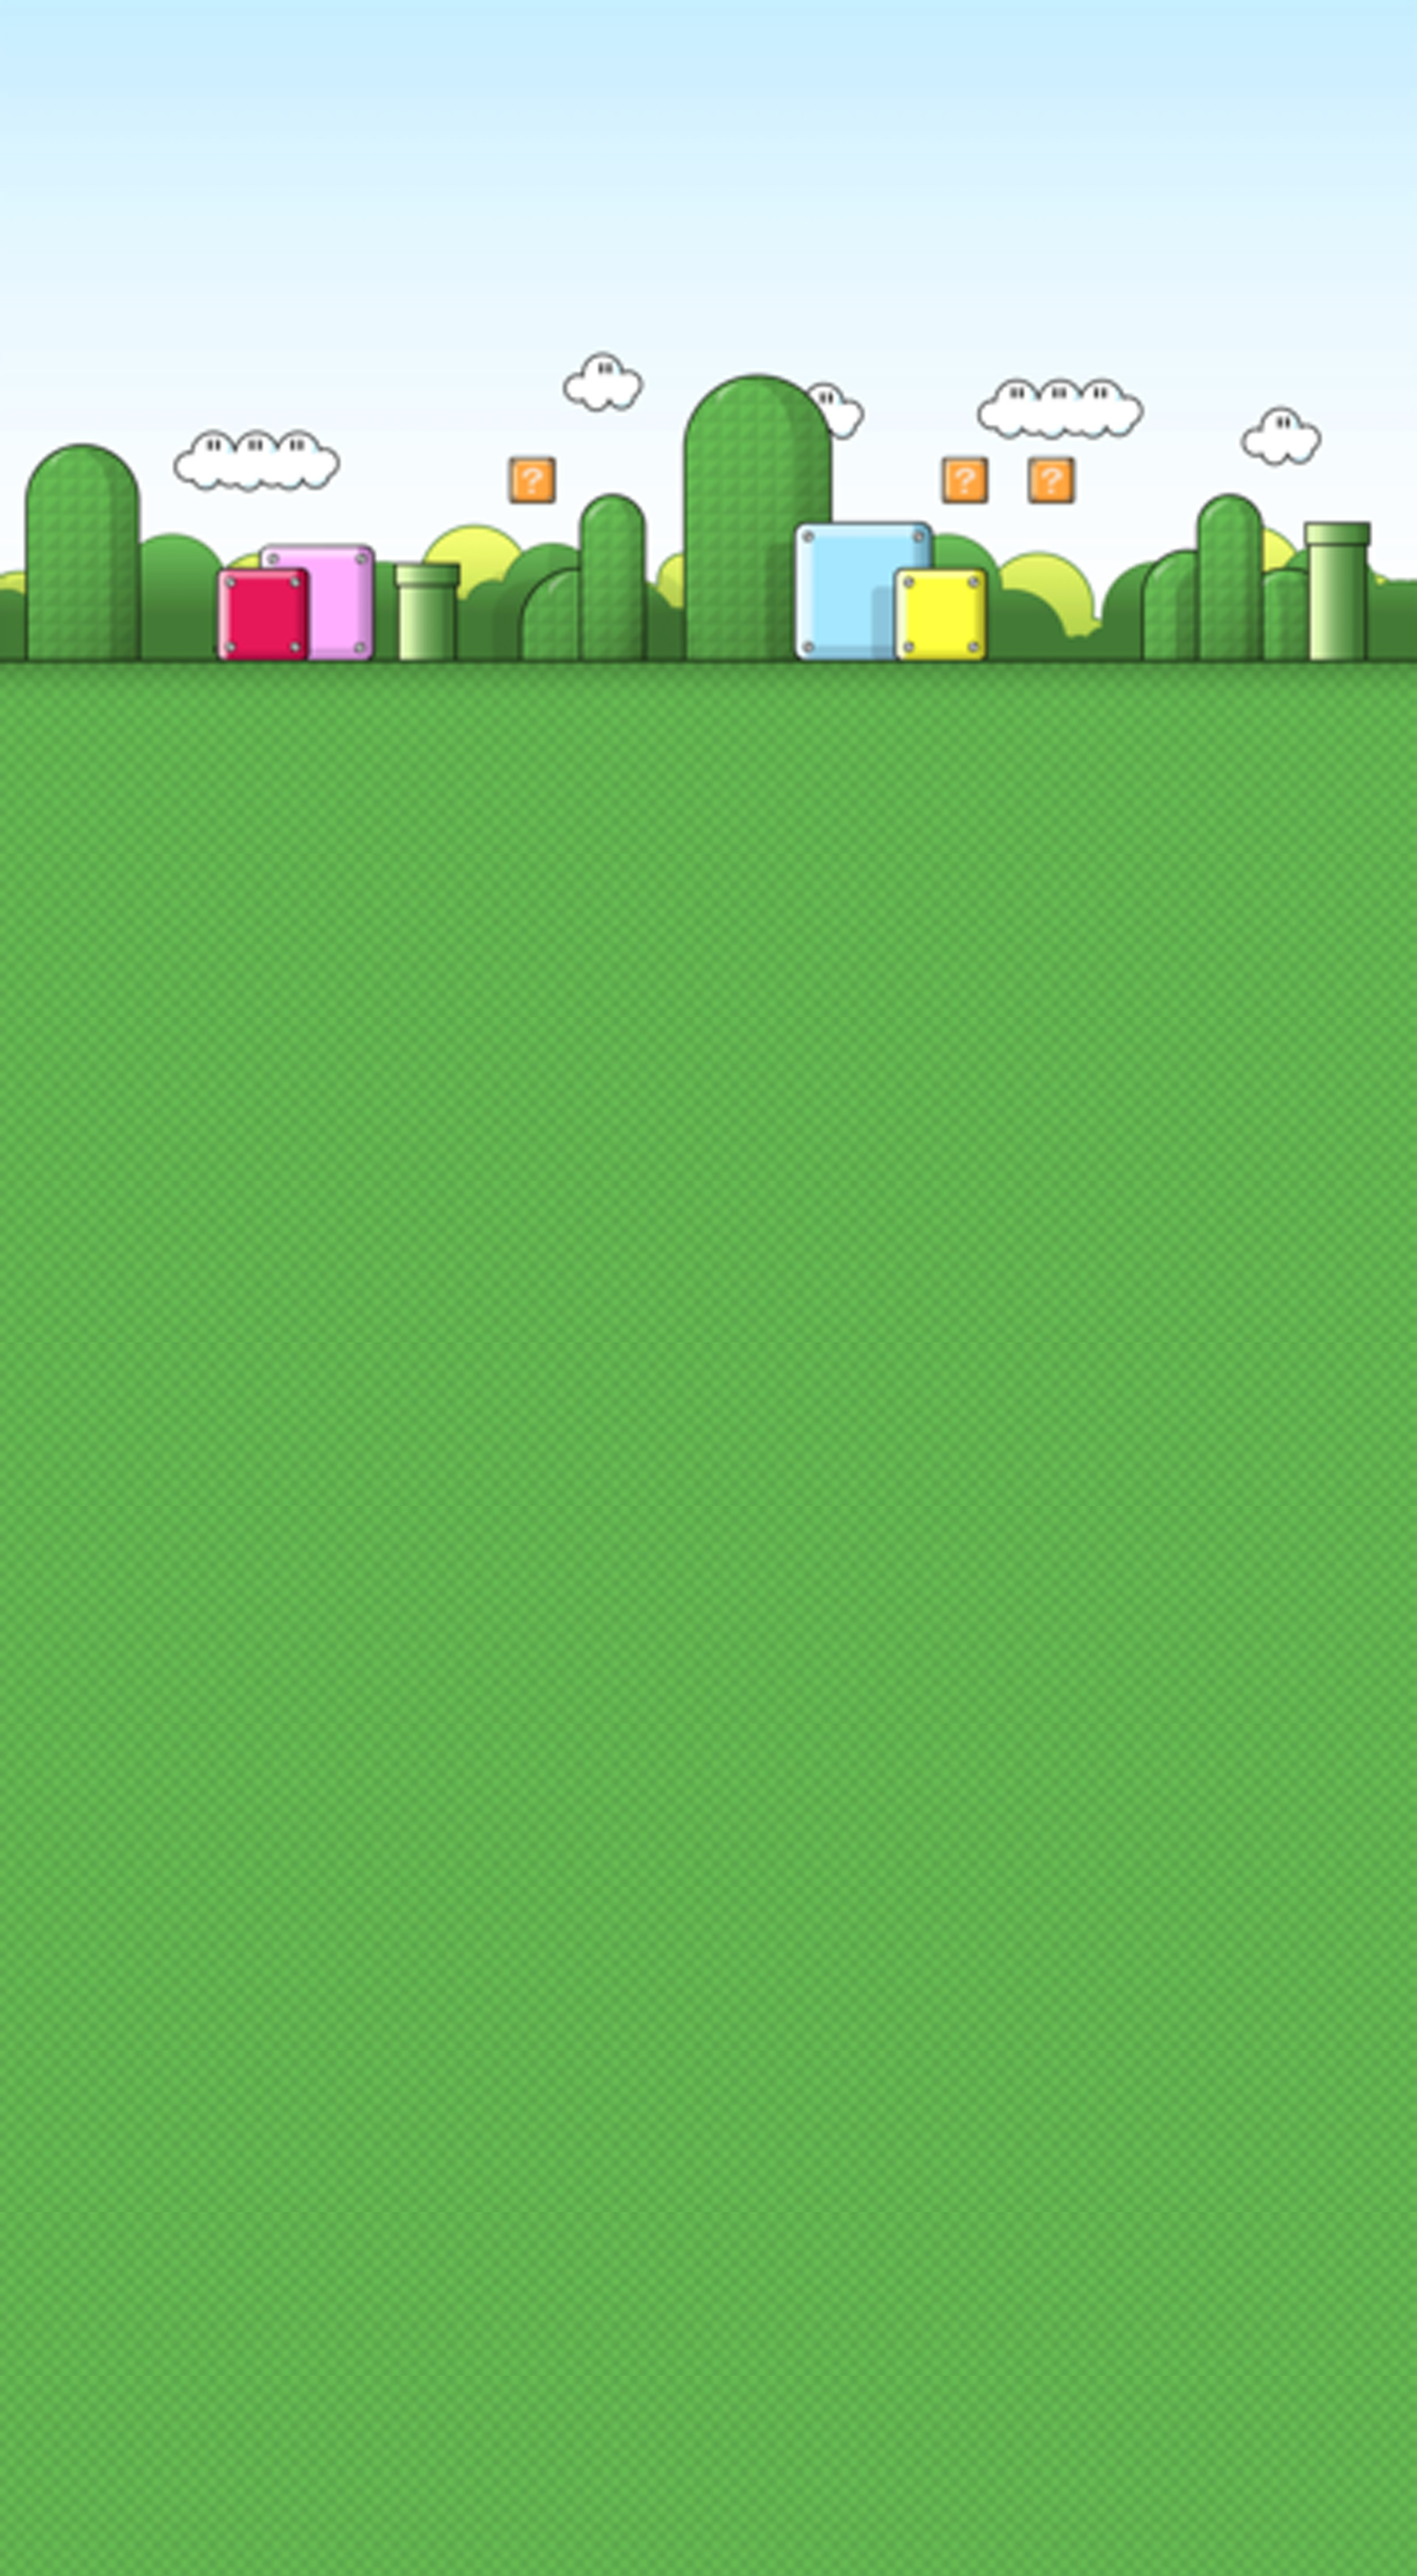
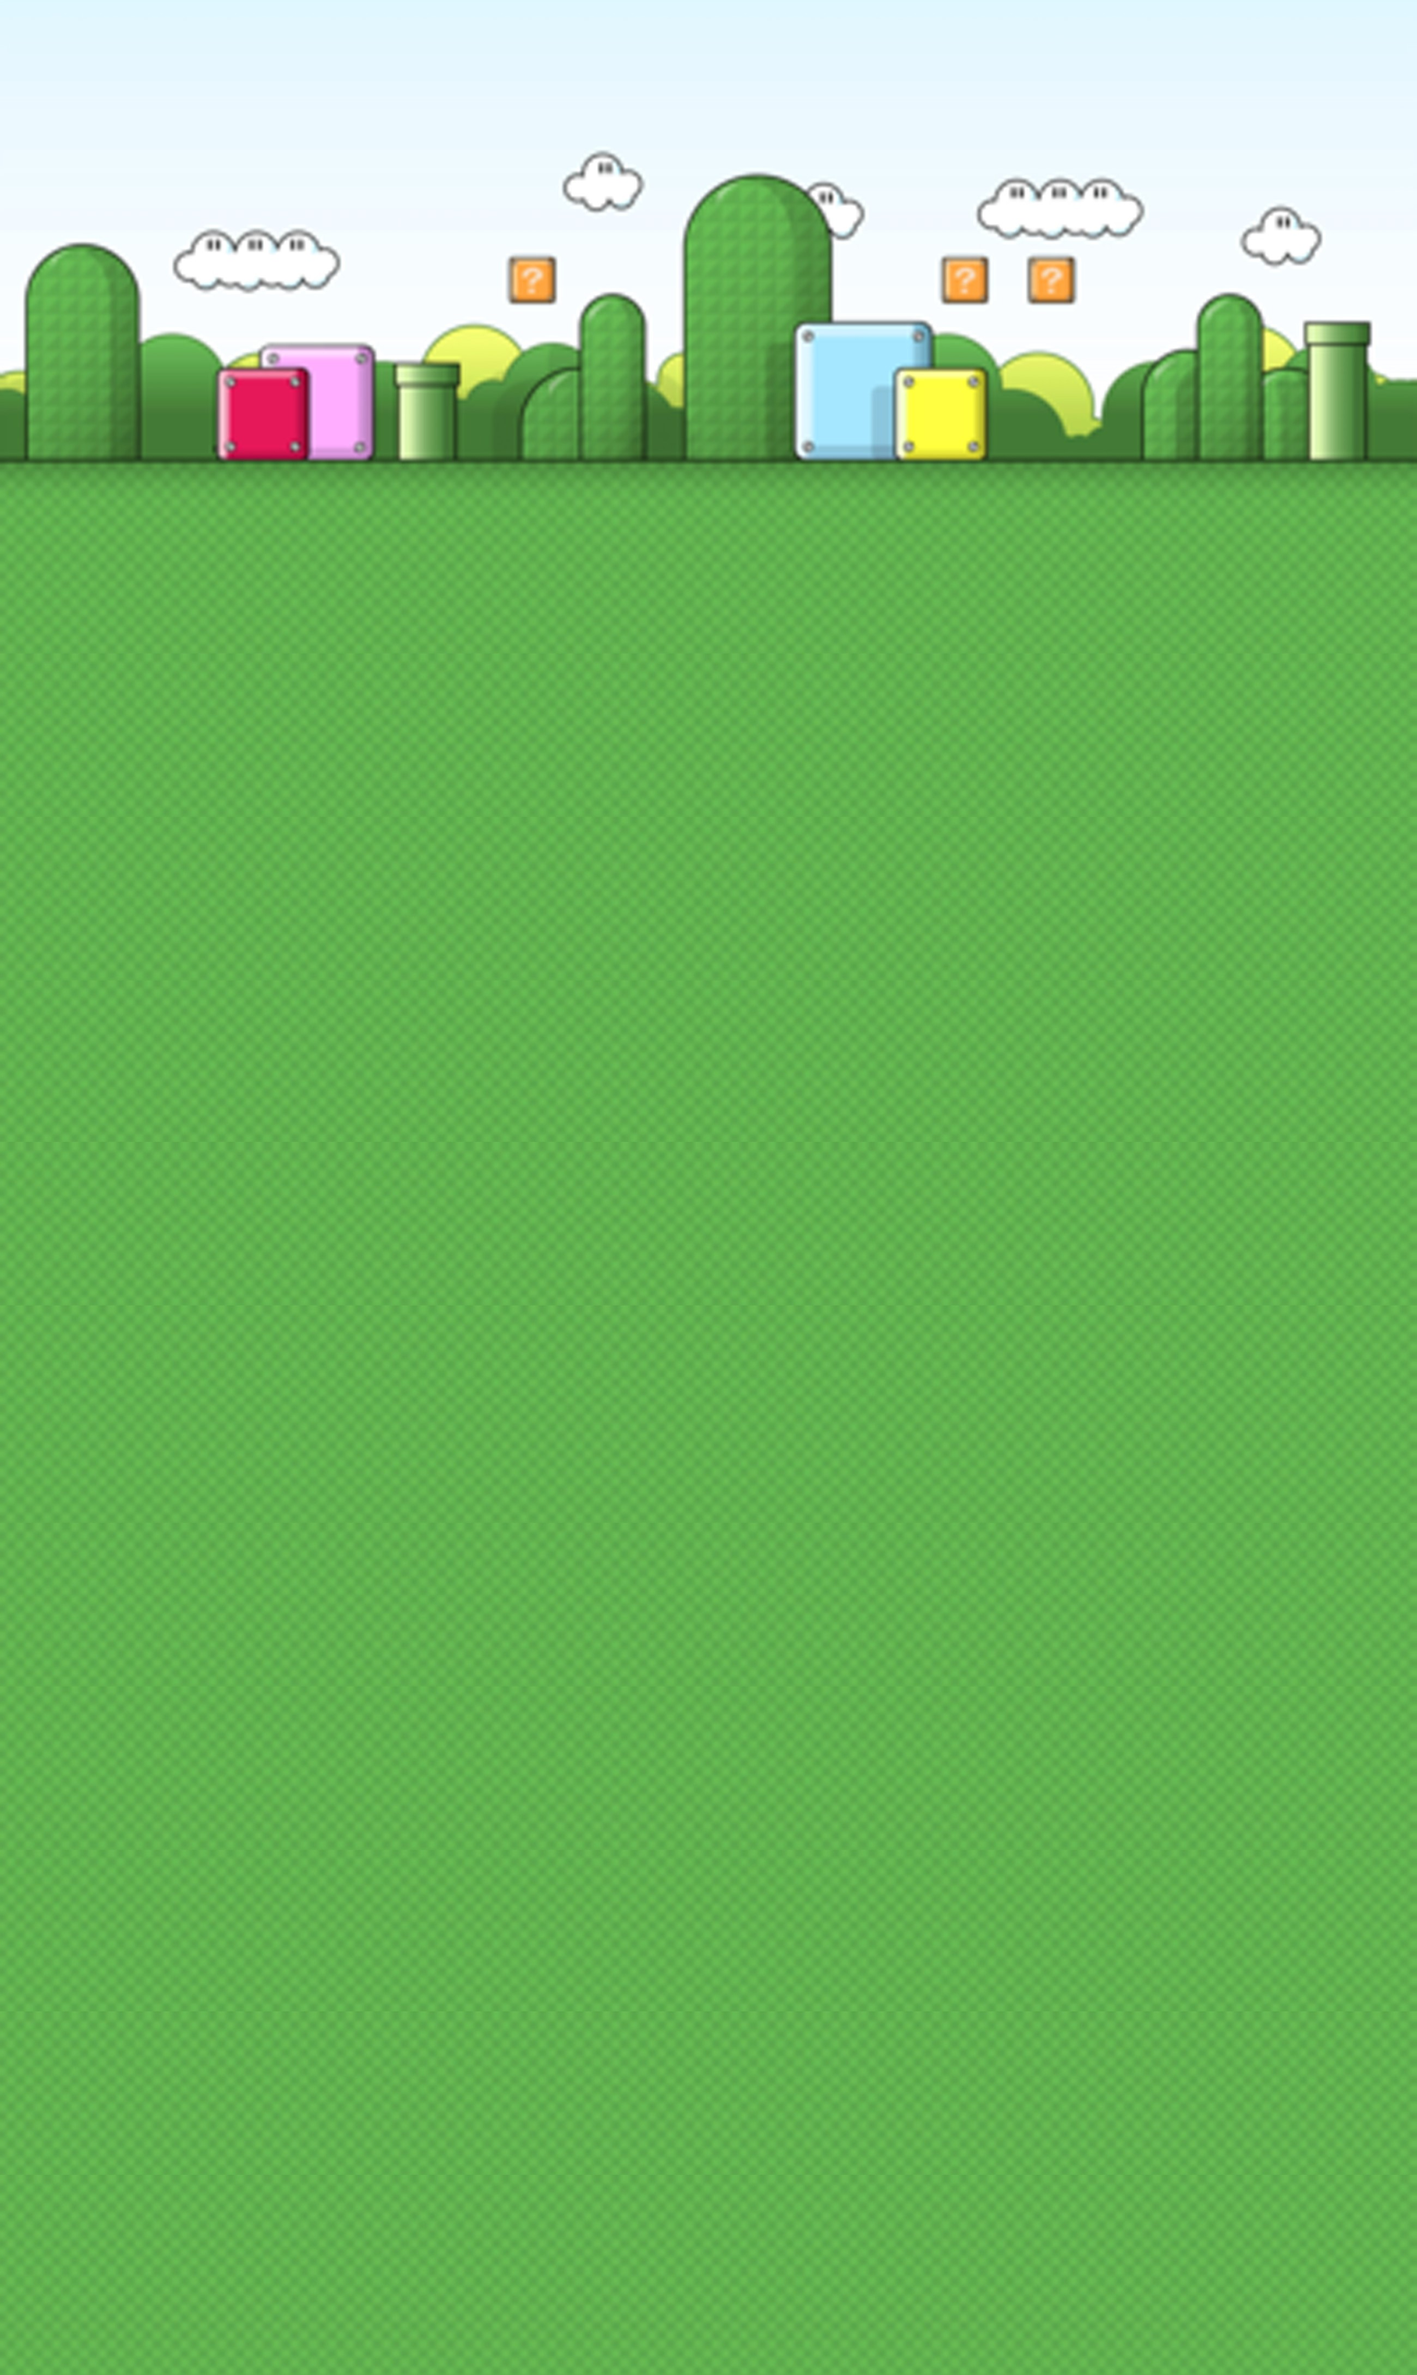
added admin panel button and page

Changed region(s): [[0.0, 0.0624, 1.0, 0.2809], [0.0, 0.0, 1.0, 0.0312]]

diff --git a/public/index.html b/public/index.html
@@ -1,27 +1,51 @@
 <!DOCTYPE html>
 <html lang="en">
-    <head>
-        <meta charset="UTF-8">
-        <title>Coding Games - Dor & Uzi</title>
-        <link rel="stylesheet" href="css/main.css">
-        <link rel="stylesheet" href="css/index.css"></head>
-    </head>
-    </head>
-    <body>
-        <header>
-            <h1>Coding Gamesssssss</h1>
-            <nav>
-                <ul>
-                    <li><a href="index.html">Home</a></li>
-                    <li><a href="games.html">Games</a></li>
-                    <li><a href="about.html">About</a></li>
-                    <li><a href="contactUs.html">Contact</a></li>
-                </ul>
-            </nav>
-        </header>
-        <main>
-        </main>
 
-        <script src="lib/jQuery/jquery-2.1.4.min.js"></script>
-    </body>
+<head>
+    <meta charset="UTF-8">
+    <title>Coding Games - Dor & Uzi</title>
+    <link rel="stylesheet" href="css/index.css">
+</head>
+
+<body>
+
+<header>
+    <button id="loginBtn" onclick="loginField()">Login</button>
+    <button id="logoutBtn" class="hide"  onclick="logout()">Logout</button>
+
+    <div class="login hide">
+        <div class="wrap">
+            <div class="avatar">
+                <img src="">
+            </div>
+            <form onsubmit="login(this); return false">
+            <input type="text" placeholder="username" required>
+            <div class="bar">
+                <i></i>
+            </div>
+            <input type="password" placeholder="password" required>
+            <button type="submit">Sign in</button>
+            </form>
+        </div>
+    </div>
+    <h1>Coding Gamesssssss</h1>
+    <nav>
+        <ul>
+            <li><a href="index.html">Home</a></li>
+            <li><a href="games.html">Games</a></li>
+            <li><a href="about.html">About</a></li>
+            <li><a href="contactUs.html">Contact</a></li>
+            <li id="adminPanel" class="hide"><a href="adminPanel.html">Admin Panel</a></li>
+        </ul>
+
+    </nav>
+
+</header>
+
+<main>
+
+</main>
+<script src="js/main.js"></script>
+<script src="lib/jQuery/jquery-2.1.4.min.js"></script>
+</body>
 </html>

diff --git a/public/css/mainStyle.scss b/public/css/mainStyle.scss
@@ -1,0 +1,125 @@
+body {
+  background-image: url("../img/background.jpg");
+  background-size: cover;
+}
+
+h1 {
+  display: block;
+  margin: 0 0 0 63px;
+  //margin-left: 63px;
+  font-size: 4em;
+}
+
+header {
+  margin-left: 35%;
+  margin-bottom: 23%;
+}
+
+nav ul {
+  //font-family: 'Montserrat', sans-serif;
+  margin: 0;
+  list-style-type: none;
+  padding-left: 0;
+  height: 2.4em;
+  text-align: center;
+}
+
+nav ul li {
+  float: left;
+}
+
+nav ul li a {
+  display: block;
+  width: 8em;
+  height: 1.25em;
+  line-height: 1.25em;
+  color: black;
+  font-size: 17px;
+  padding-top: 10px;
+  text-decoration: none;
+  width: 100px;
+}
+
+.hide {
+  display: none;
+}
+
+//login
+
+.login {
+  position: fixed;
+  top: 0;
+}
+
+#logoutBtn {
+  margin-left: 250px;
+}
+
+.wrap {
+  width:250px;
+  height: auto;
+  margin: auto;
+  margin-top: 10%;
+}
+.avatar {
+  width: 100%;
+  margin: auto;
+  width: 65px;
+  border-radius: 100px;
+  height: 65px;
+  background: #448ed3 ;
+  position: relative;
+  bottom: -15px;
+}
+.avatar img {
+  width: 55px;
+  height: 55px;
+  border-radius: 100px;
+  margin: auto;
+  border:3px solid #fff;
+  display: block;
+}
+.wrap input {
+  border: none;
+  background: #fff;
+  font-weight:700 ;
+  display: block;
+  height: 40px;
+  outline: none;
+  width: calc(100% - 24px) ;
+  margin: auto;
+  padding: 6px 12px 6px 12px;
+}
+.bar {
+  width: 100%;
+  height: 1px;
+  background: #fff ;
+}
+.bar i {
+  width: 95%;
+  margin: auto;
+  height: 1px ;
+  display: block;
+  background: #d1d1d1;
+}
+.wrap input[type="text"] {
+  border-radius: 7px 7px 0 0 ;
+}
+.wrap input[type="password"] {
+  border-radius: 0 0 7px 7px ;
+}
+
+.wrap button {
+  width: 100%;
+  border-radius: 7px;
+  background: #b6ee65;
+  border: none;
+  color: #51771a;
+  margin-top:-5px;
+  padding-top: 14px;
+  padding-bottom: 14px;
+  outline: none;
+  font-size: 13px;
+  border-bottom: 3px solid #307d63;
+  cursor: pointer;
+}

diff --git a/public/css/contactUs.scss b/public/css/contactUs.scss
@@ -1,4 +1,4 @@
-@import "main";
+@import "mainStyle";
 
 input, label, textarea, button {
   margin: 5px;
@@ -6,34 +6,34 @@ input, label, textarea, button {
 
 input {
   margin-bottom: 15px;
+  border: 2px solid black;
+  height: 20px;
+  background: rgba(255, 0, 0, 0.7);
+  font-size: 15px;
 }
 
+header {
+  margin: 0;
+}
 h1 {
-  font-size: 2.2em;
+  font-size: 3.2em;
+  margin-top: 10px;
 
 }
 
-//label {
-//  //width: 100px;
-//  //float: left;
-//  margin: 5px;
-//  //margin: 15px 10px;
-//}
-//textarea {
-//  margin: 5px;
-//}
-//button {
-//
-//}
+label {
+  font-weight: bold;
+  font-size: 1.2em;
+}
 
 .contact-form {
-  background: rgba(0, 255, 0, 0.2);
-  color: #E6185A;
+  //background: rgba(0, 255, 0, 0.4);
   padding: 15px;
+  margin-top: 30px;
 }
 
 form button {
-  background-color: #E6185A;
+  background: rgba(255, 0, 0, 0.7);
   font-size: 1.2em;
   -webkit-border-radius: 5px;
   -moz-border-radius: 5px;
@@ -43,9 +43,13 @@ form button {
 }
 
 #message {
-  width: 172px;
+  width: 190px;
   height: 100px;
+  border: 2px solid black;
+  background: rgba(255, 0, 0, 0.7);
+  font-size: 1.2em;
 }
+
 
 @media (min-width: 768px) {
 

diff --git a/public/contactUs.html b/public/contactUs.html
@@ -1,17 +1,27 @@
 <!DOCTYPE html>
 <html lang="en">
 <head>
+    <link rel="stylesheet" type="text/css" href="css/mainStyle.css">
     <link rel="stylesheet" type="text/css" href="css/contactUs.css">
     <meta charset="UTF-8">
     <title>Contact Form</title>
 </head>
 <body>
-<div class="contact-page">
-    <div class="form-head">
-        <h1>Contact Us!</h1>
-    </div>
 
-<form onsubmit="sendForm(this);  return false" class="contact-form">
+<header>
+    <h1>Contact Us</h1>
+    <nav>
+        <ul>
+            <li><a href="index.html">Home</a></li>
+            <li><a href="games.html">Games</a></li>
+            <li><a href="about.html">About</a></li>
+            <li><a href="contactUs.html">Contact</a></li>
+        </ul>
+    </nav>
+</header>
+
+
+<form onsubmit="sendForm(this);" class="contact-form">
 
     <label for="userName">Name: </label><br>
     <input type="text" id="userName" name="userName" required><br>
@@ -32,7 +42,6 @@
 
 
 
-</div>
     <script src="lib/jQuery/jquery-2.1.4.min.js"></script>
     <script src="js/contactUs.js"></script>
 </body>

diff --git a/public/js/main.js b/public/js/main.js
@@ -1,0 +1,22 @@
+function loginField() {
+    $('.login').removeClass('hide');
+}
+
+
+function login(userDtl) {
+    if (userDtl[0].value === 'admin' && userDtl[1].value === 'admin') {
+
+        $('#adminPanel').removeClass('hide');
+    }
+    $('.login').addClass('hide');
+    $('#loginBtn').addClass('hide');
+    $('#logoutBtn').removeClass('hide');
+}
+
+function logout() {
+    $('#adminPanel').addClass('hide');
+    $('#logoutBtn').addClass('hide');
+    $('#loginBtn').removeClass('hide');
+
+}
+

diff --git a/public/games.html b/public/games.html
@@ -3,7 +3,7 @@
 <head>
     <meta charset="UTF-8">
     <title>Games</title>
-    <link rel="stylesheet" href="css/main.css"></head>
+    <link rel="stylesheet" href="css/mainStyle.css"></head>
     <link rel="stylesheet" href="css/games.css"></head>
 <body>
     <header>

diff --git a/public/adminPanel.html b/public/adminPanel.html
@@ -1,0 +1,14 @@
+<!DOCTYPE html>
+<html lang="en">
+<head>
+    <meta charset="UTF-8">
+    <title>Admin Panel</title>
+</head>
+<body>
+<p>Hello Admin</p>
+<div id="userMessages">
+
+</div>
+
+</body>
+</html>

diff --git a/public/about.html b/public/about.html
@@ -1,0 +1,10 @@
+<!DOCTYPE html>
+<html lang="en">
+<head>
+    <meta charset="UTF-8">
+    <title></title>
+</head>
+<body>
+
+</body>
+</html>

diff --git a/public/css/games.scss b/public/css/games.scss
@@ -1,3 +1,4 @@
+@import "mainStyle";
 
 img{
 

diff --git a/public/css/index.scss b/public/css/index.scss
@@ -1,0 +1,1 @@
+@import "mainStyle";
